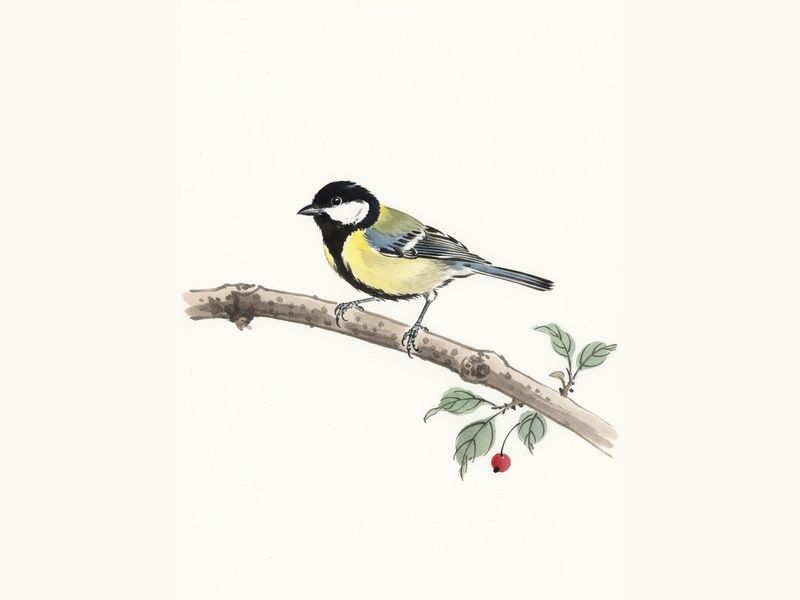
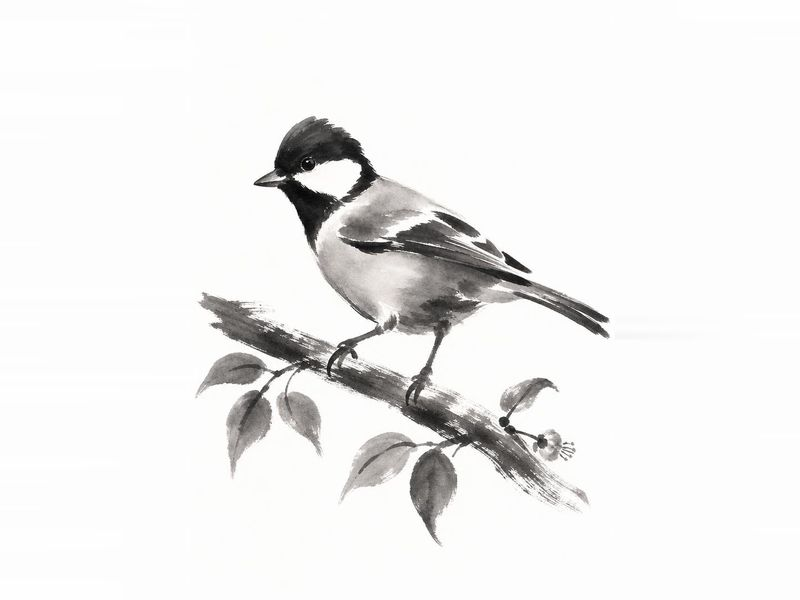
fix: ink-and-wash and stained glass that read as their medium, bump to 0.11.0
Sumi-e asks for a dozen bold wet strokes and grey ink pools, stained glass for many leaded pieces of mottled glass; on Nano Banana both are painted with GPT Image 2, keyed as before so kept paintings still show. Their samples are repainted.

Changed region(s): [[0.2188, 0.18, 0.7812, 0.9], [0.4062, 0.81, 0.4375, 0.84]]

diff --git a/paint.py b/paint.py
@@ -207,6 +207,23 @@ def model_of(model: str | None) -> str:
     return model if model in MODELS else DEFAULT_MODEL
 
 
+# Styles Nano Banana keeps too close to the photograph (a watercolour for sumi-e, an
+# outlined drawing for stained glass): a cell left on Nano Banana paints these with
+# GPT Image 2. Only the painting's payload carries it; its key keeps the cell's
+# model, so a style moving model keeps the paintings it has.
+STYLE_MODEL = {
+    "sumie": "gpt_image",
+    "stainedglass": "gpt_image",
+}
+
+
+def model_for(style: str | None, model: str | None) -> str:
+    """The model a painting in ``style`` is made with: the cell's own, or for a
+    style Nano Banana cannot make, GPT Image 2 in its place."""
+    model = model_of(model)
+    return STYLE_MODEL.get(str(style or ""), model) if model == DEFAULT_MODEL else model
+
+
 def request_body(
     model: str, prompt: str, image_url: str | list[str], aspect: str
 ) -> dict[str, Any]:
@@ -416,7 +433,7 @@ STYLES.update(
         ),
         "stainedglass": (
             "Stained glass",
-            "the {kind} rendered in stained glass: thick black lead lines round pieces of jewel-coloured glass in the species' colours, with no window frame or panel edge, the {kind} alone on plain pure white paper",
+            "a leaded stained-glass picture of the {kind}: built entirely of many small cut pieces of translucent coloured glass in the species' colours, two dozen or more pieces in the {kind} alone, joined by thick dark lead came of one even width, each feather group, the cap, the cheek, the eye, the bill, each leg, each leaf and each length of branch its own flat piece, every piece a single colour of mottled, streaky, rippled antique glass with light glowing through it and nothing painted or drawn inside it, the lead lines tracing every piece's edge like a jigsaw, the leaf stalks and twigs glass pieces too and no bare lead line anywhere, the glass pieces of the {kind} and its perch only, with no window frame, panel edge or background glass round them, the {kind} alone on plain pure white paper",
         ),
         "risograph": (
             "Risograph print",
@@ -509,7 +526,7 @@ STYLES.update(
         ),
         "sumie": (
             "Ink and wash",
-            "a Japanese sumi-e ink and wash painting: a few confident brushstrokes of black ink with soft grey washes and a touch of colour, on plain pure white paper",
+            "a Japanese sumi-e brush painting in black sumi ink, in the spirit of a Zen master's freehand brushwork: the {kind} suggested, not described, in perhaps a dozen bold, wet strokes of a large soft brush, each stroke made once and left, its bristle marks and tapering end showing, the body one or two broad pools of grey ink bleeding softly into the paper, the dark markings a few strokes of solid black, no feather drawn on its own and no fine detail beyond the eye, the branch in fast dry-brush strokes with ragged edges, a monochrome painting in black and grey ink, the species' colours given only as a pale tint dropped into one wash; the whole {kind} large on the page, about two thirds of its width, its bill, tail tip and the branch's ends all well clear of the edges, on plain pure white paper",
         ),
         "cigarette": (
             "Edwardian cigarette card",

diff --git a/tools/style_previews.py b/tools/style_previews.py
@@ -7,8 +7,9 @@ small JPEGs in static/styles/ that the cell's Style option points at
     python3 tools/style_previews.py --key-file ~/fal_key --only gould,sumie --force
 
 Each painting is asked for the way a cluster cell asks for one: the payload
-server.py's _paint_payload builds (photo reference, default model, no custom
-words, no native perch, not dapper, not the hero), its key from paint.key_for
+server.py's _paint_payload builds (photo reference, default model or the
+style's own from paint.model_for, no custom words, no native perch, not
+dapper, not the hero), its key from paint.key_for
 and its prompt from paint.prompt_for, in the cell's 3:4. The reference and its
 credit are in REFERENCE below and in ATTRIBUTION.md; the full-size paintings
 go to tools/out/styles/ (not shipped). Needs a Tesserae checkout beside this
@@ -231,7 +232,7 @@ def main() -> int:
             "sci": REFERENCE["sci"],
             "kind": REFERENCE["kind"],
             "how": "",
-            "model": P.DEFAULT_MODEL,
+            "model": P.model_for(style, P.DEFAULT_MODEL),
             "ref_mode": "photo",
             "ref": ref,
             "ref_credit": credit,
@@ -251,7 +252,7 @@ def main() -> int:
         prompt = P.prompt_for({**job, "how": how, "ref_used": used}, data_dir)
         try:
             raw = client.generate(
-                P.DEFAULT_MODEL, prompt, refs=refs, aspect=ASPECT, retries=1
+                job["model"], prompt, refs=refs, aspect=ASPECT, retries=1
             )
         except Exception as exc:  # noqa: BLE001 - one style failing leaves the rest
             return f"{style}: failed ({exc})"

diff --git a/server.py b/server.py
@@ -750,7 +750,8 @@ def _paint_payload(
         "sci": row["sci"],
         "kind": row.get("kind") or "Aves",
         "how": gen.get("how") or "",
-        "model": gen.get("model", P.DEFAULT_MODEL),
+        # the painting's key keeps the cell's model; the style may paint with another
+        "model": P.model_for(gen["style"], gen.get("model", P.DEFAULT_MODEL)),
         "ref_mode": gen.get("ref_mode", "photo"),
     }
     if gen.get("plants"):
@@ -2201,14 +2202,15 @@ def blueprint() -> Any:
             )
             payload["style"] = P.register_custom(how)
             payload["how"] = how
-        payload["model"] = P.model_of(request.form.get("model"))
+        model = P.model_of(request.form.get("model"))
         key = P.key_for(
             sci,
             payload["style"],
             kind,
             request.form.get("dapper") == "1",
-            payload["model"],
+            model,
         )
+        payload["model"] = P.model_for(payload["style"], model)
         start(key, payload, f"the {name[:80]}")
         return back()
 
@@ -2223,7 +2225,7 @@ def blueprint() -> Any:
             "name": name,
             "sci": sci,
             "kind": kind,
-            "model": P.DEFAULT_MODEL,
+            "model": P.model_for(style, P.DEFAULT_MODEL),
         }
         start(
             P.key_for(sci, style, kind, False, P.DEFAULT_MODEL),
